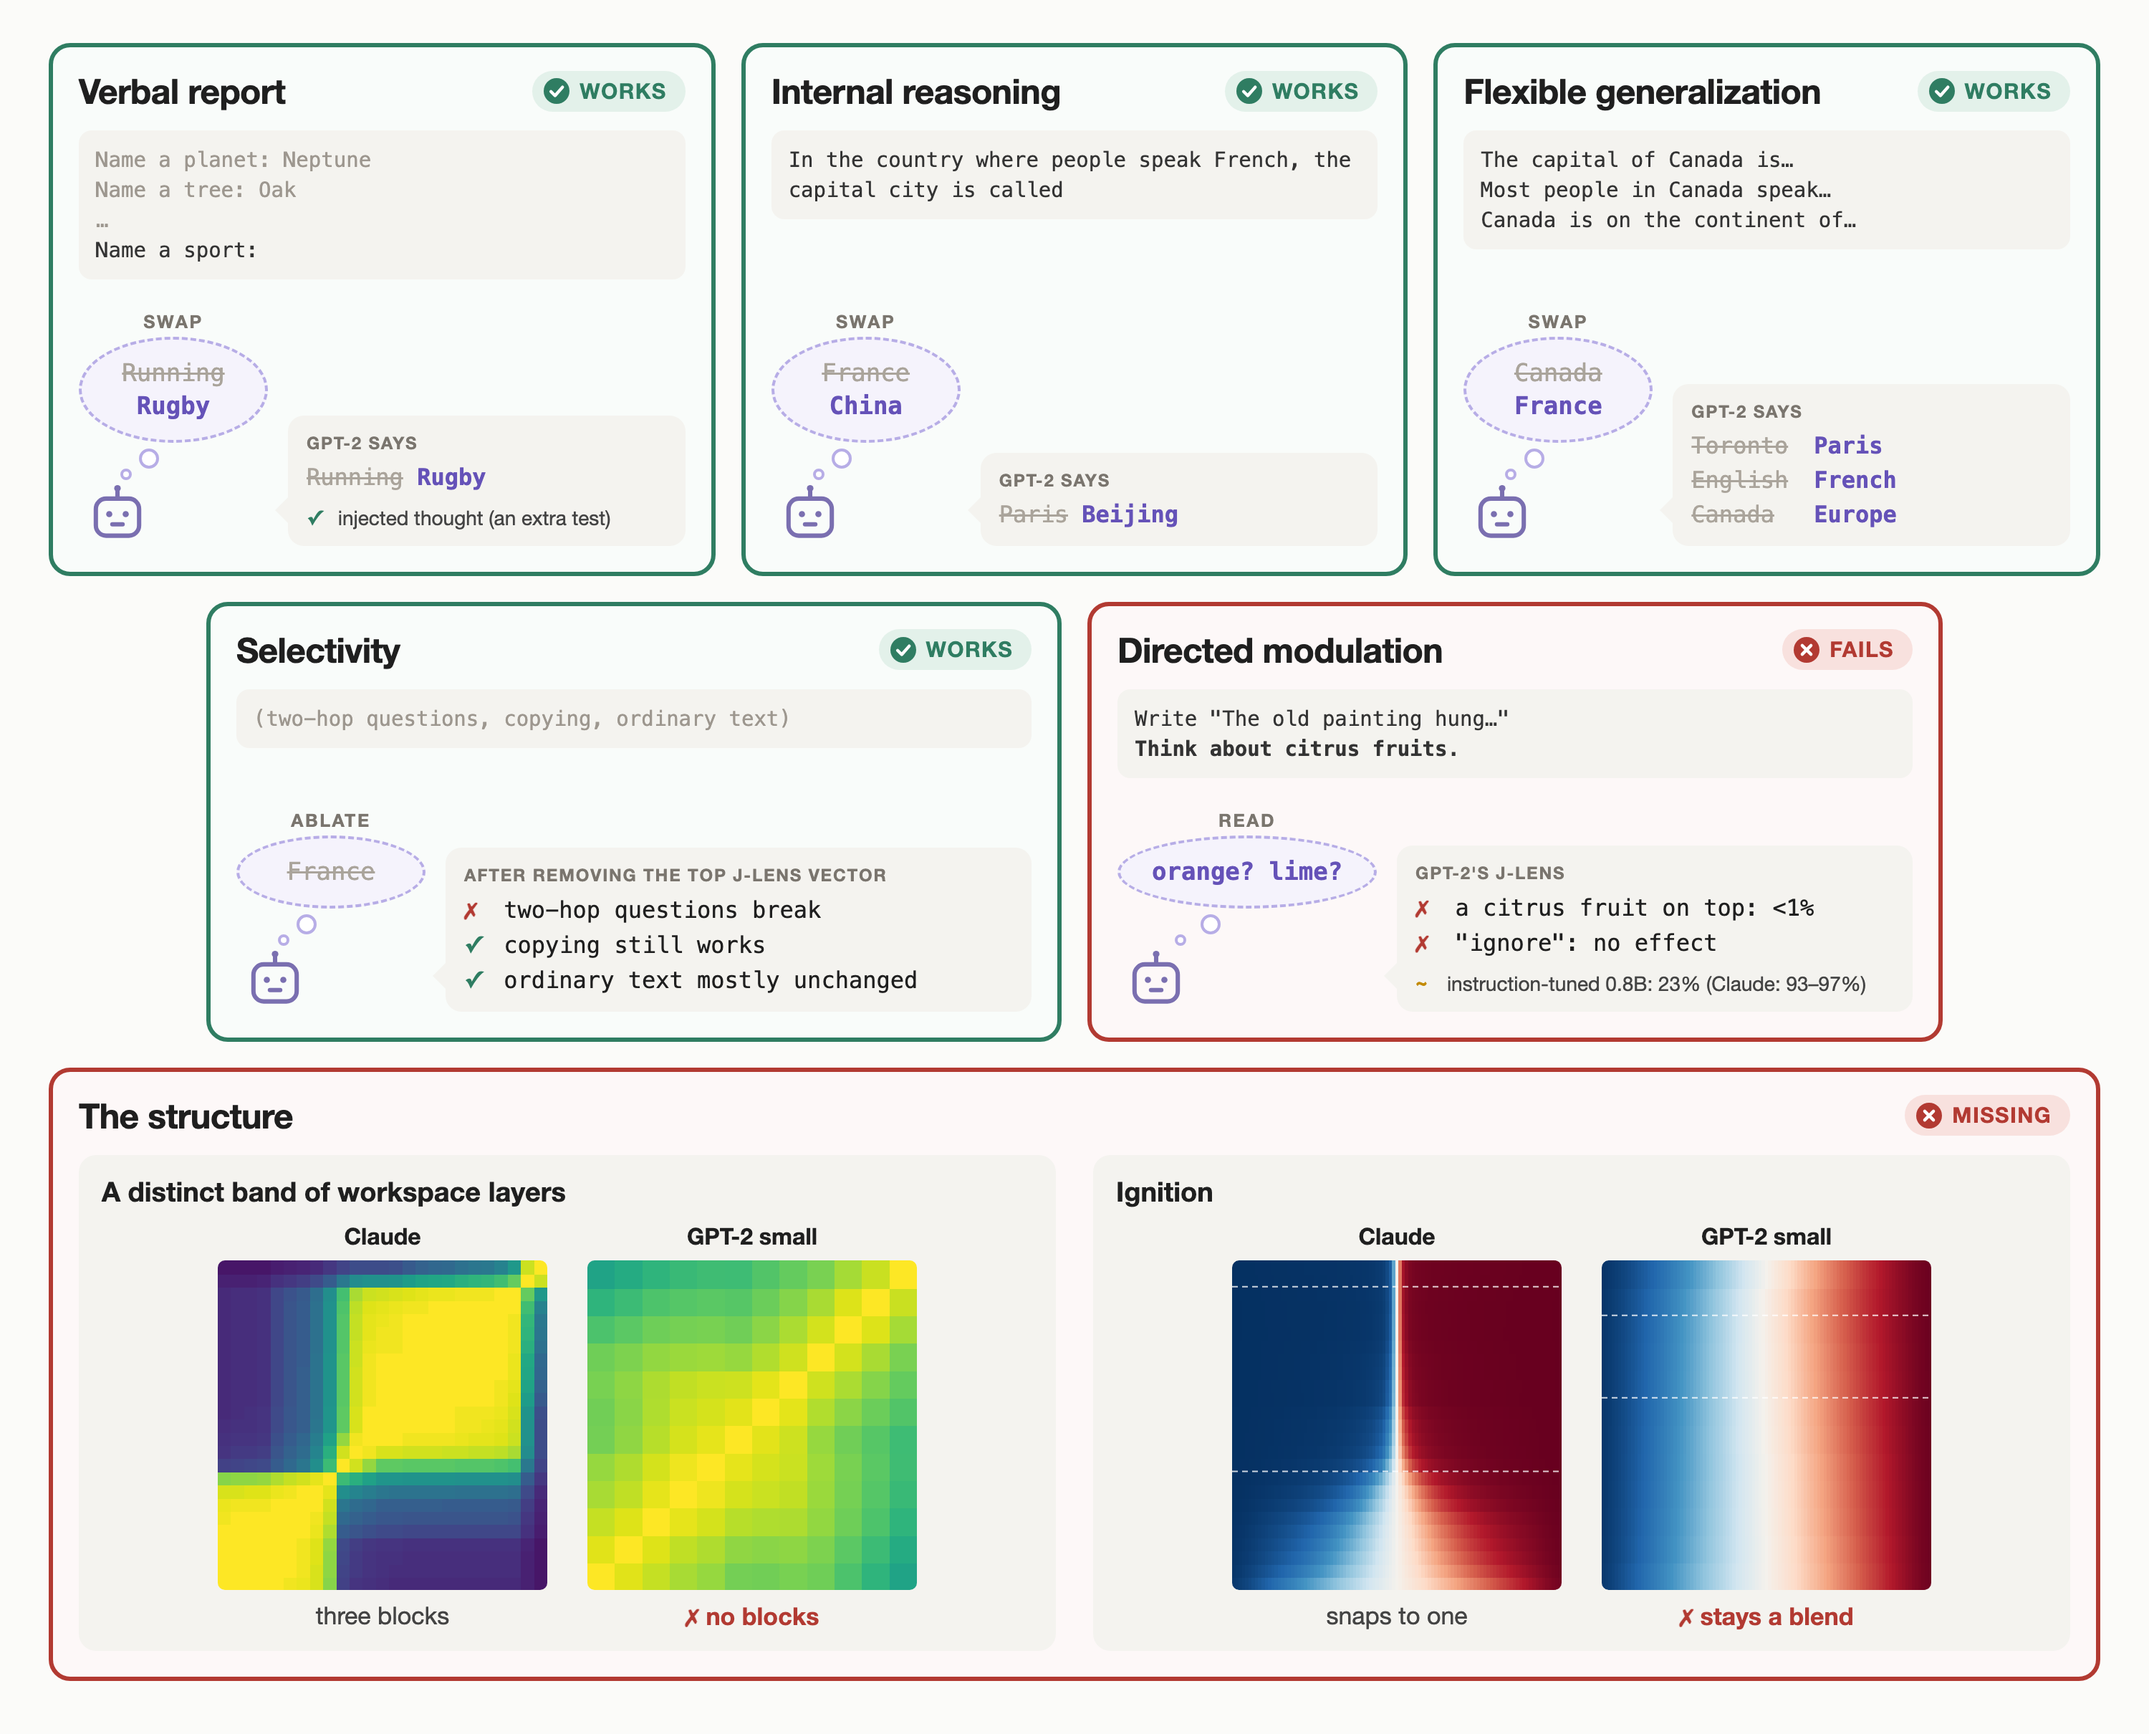
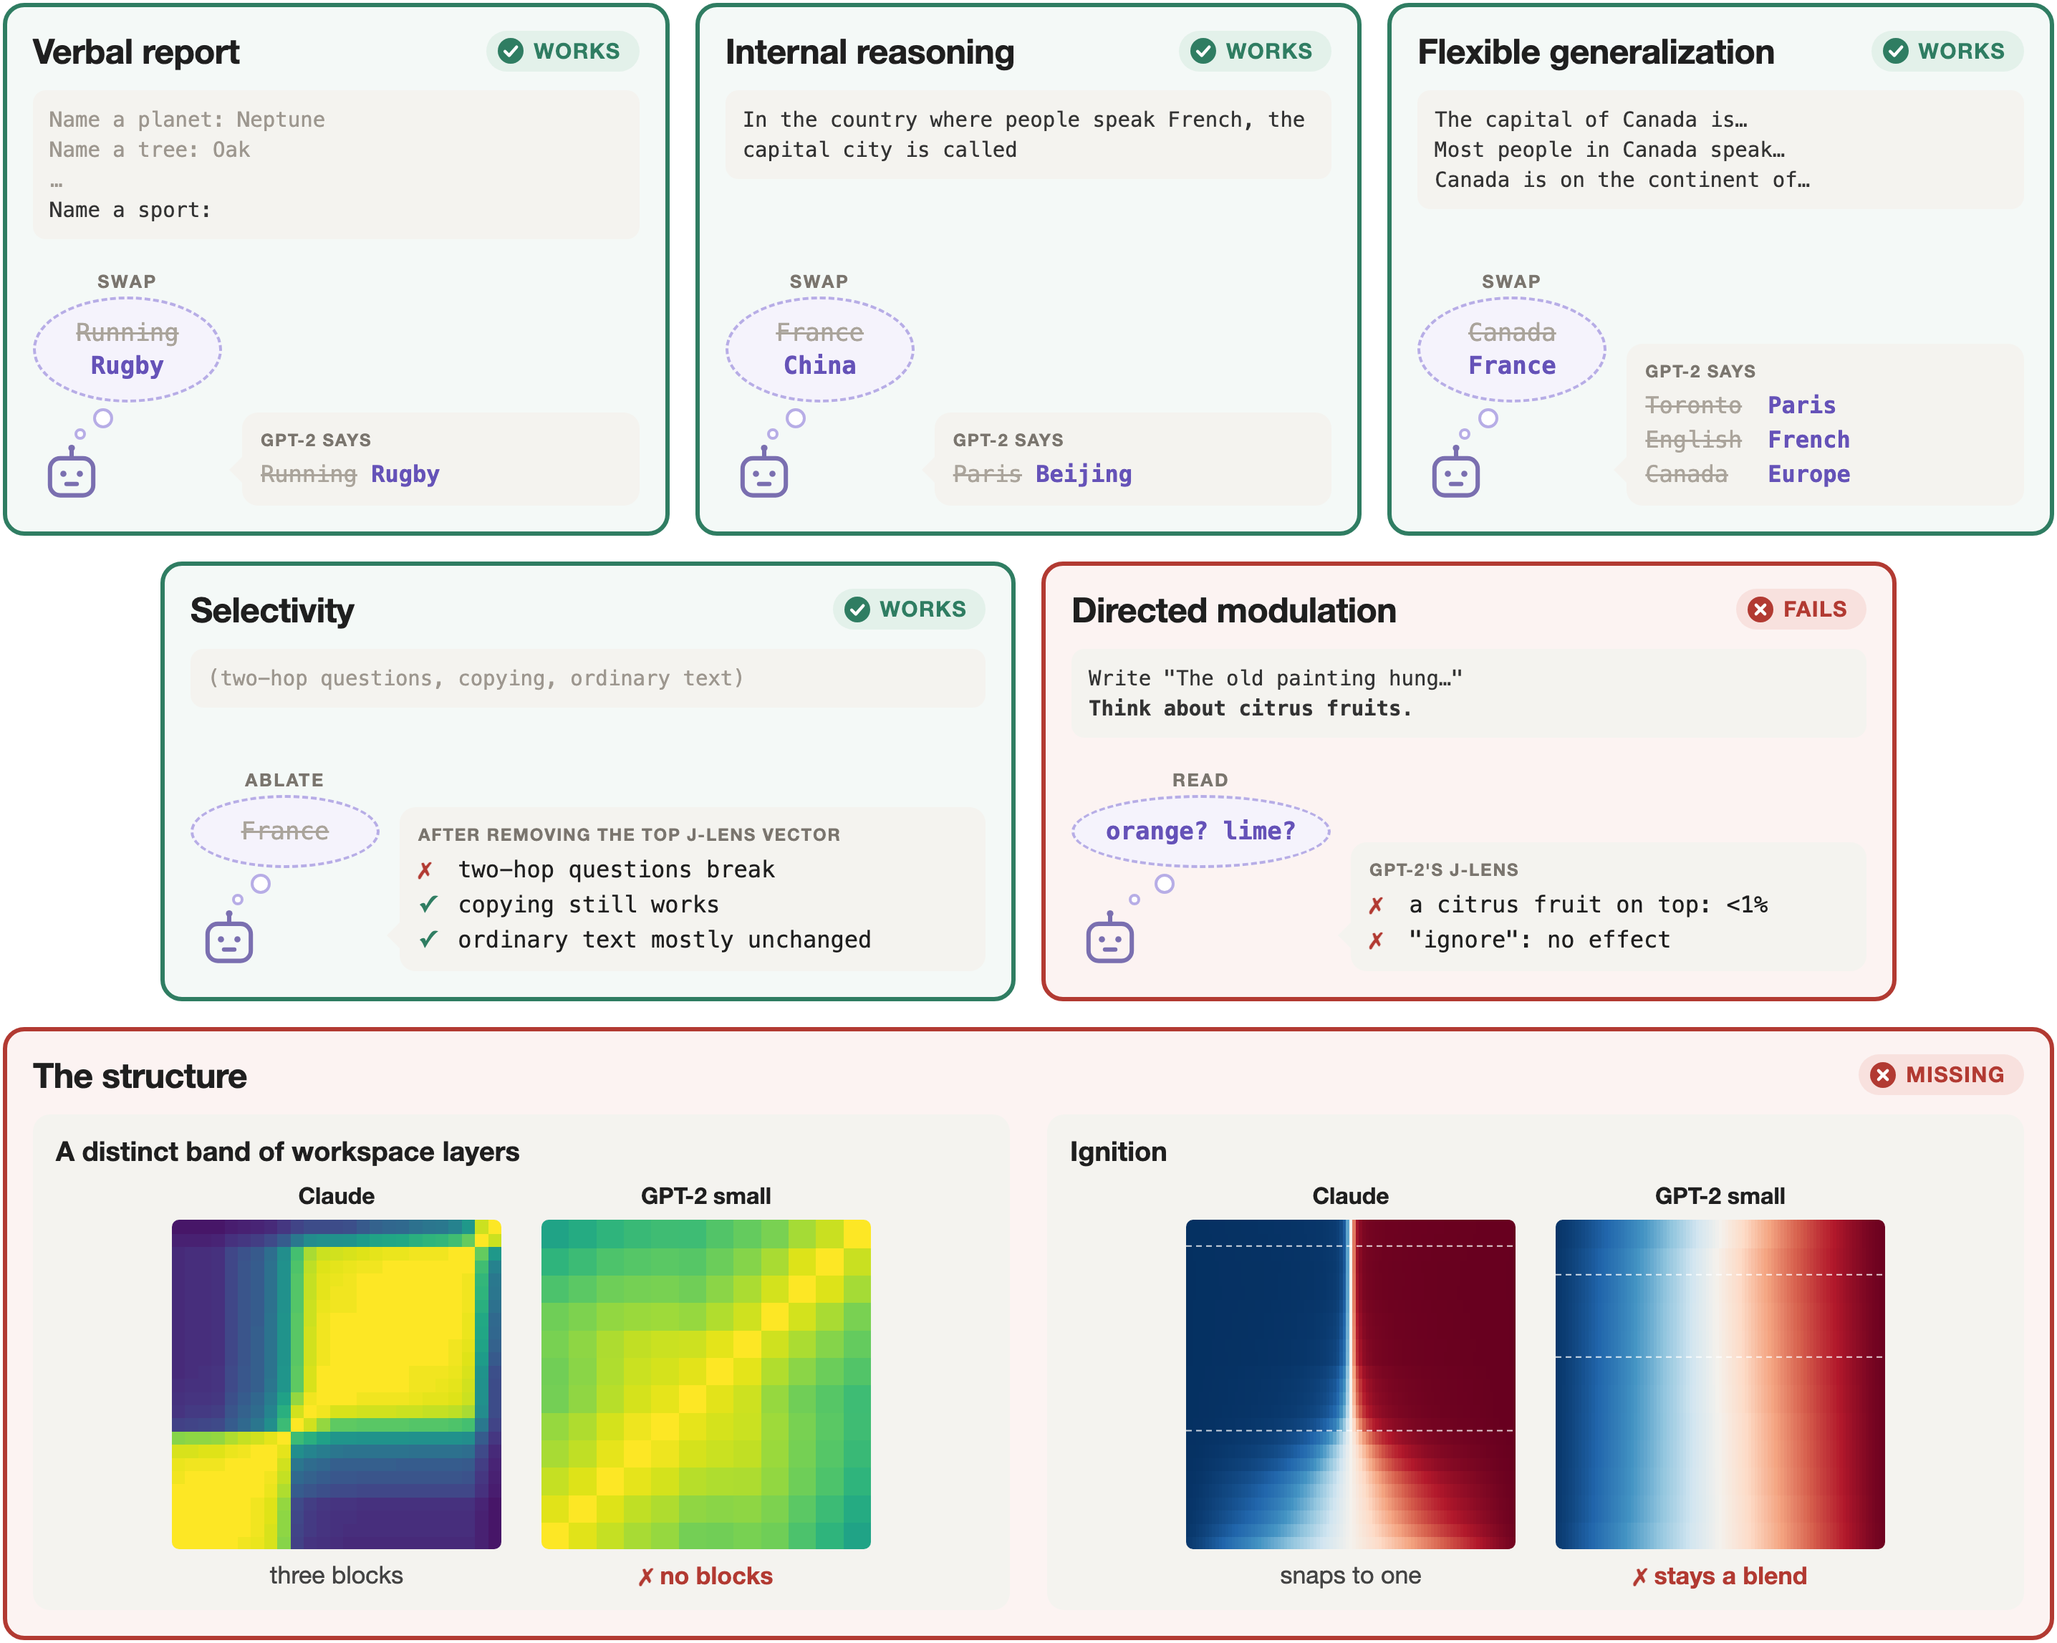
Figure 1: white background, tight crop, drop the injected-thought and Qwen notes

Changed region(s): [[0.0, 0.0, 1.0, 1.0], [0.4958, 0.6809, 0.5578, 0.7119]]

diff --git a/post/fig1/fig1.html b/post/fig1/fig1.html
@@ -6,7 +6,7 @@
 <title>GPT-2 small on the workspace tests</title>
 <style>
   :root {
-    --bg: #fbfbf9; --card: #fff; --ink: #1f1f1f; --ink2: #444; --muted: #7a756e; --line: #e6e3dc; --box: #f4f3ef;
+    --bg: #fff; --card: #fff; --ink: #1f1f1f; --ink2: #444; --muted: #7a756e; --line: #e6e3dc; --box: #f4f3ef;
     --works: #2f7d62; --works-tint: #e3f1ea;
     --partly: #c28a00; --partly-tint: #fbf0d3;
     --no: #b23a32; --no-tint: #f8e1de;
@@ -18,7 +18,7 @@
 
   * { box-sizing: border-box; }
   body { margin: 0; background: var(--bg); color: var(--ink); font-family: var(--sans); }
-  .fig { background: var(--bg); padding: 30px 34px; width: 1500px; }
+  .fig { background: var(--bg); padding: 2px; width: 1436px; }
 
   s { color: #aaa49b; text-decoration: line-through; text-decoration-thickness: 1.5px; }
   em { font-style: normal; color: var(--acc); font-weight: 650; }
@@ -57,7 +57,7 @@
   .hm .cap { font-size: 17px; margin-top: 8px; text-align: center; color: var(--ink2); }
   .hm .cap.bad { color: var(--no); font-weight: 750; }
 
-  .tint-faint .card { background: color-mix(in srgb, var(--vt) 22%, #fff); }
+  .tint-faint .card { background: color-mix(in srgb, var(--vt) 40%, #fff); }
 </style>
 </head>
 <body>
@@ -109,7 +109,7 @@ const mk = (k, t) => `<span class="mk ${k}">${{ ok: "✓", x: "✗", mid: "~" }[
 const TESTS = [
   { name: "Verbal report", v: "works", prompt: `<span class="dim">Name a planet: Neptune\nName a tree: Oak\n…</span>\nName a sport:`,
     op: "SWAP", bub: ["<s>Running</s>", "<em>Rugby</em>"], lab: "GPT-2 SAYS",
-    says: `<s>Running</s> <em>Rugby</em><div class="note">${mk("ok", " injected thought (an extra test)")}</div>` },
+    says: `<s>Running</s> <em>Rugby</em>` },
   { name: "Internal reasoning", v: "works", prompt: `In the country where people speak French, the capital city is called`,
     op: "SWAP", bub: ["<s>France</s>", "<em>China</em>"], lab: "GPT-2 SAYS", says: `<s>Paris</s> <em>Beijing</em>` },
   { name: "Flexible generalization", v: "works", prompt: `The capital of Canada is…\nMost people in Canada speak…\nCanada is on the continent of…`,
@@ -120,7 +120,7 @@ const TESTS = [
     says: `${mk("x", " two-hop questions break")}<br>${mk("ok", " copying still works")}<br>${mk("ok", " ordinary text mostly unchanged")}` },
   { name: "Directed modulation", v: "no", label: "FAILS", prompt: `Write "The old painting hung…"\n<b>Think about citrus fruits.</b>`,
     op: "READ", bub: ["<em>orange? lime?</em>"], lab: "GPT-2'S J-LENS",
-    says: `${mk("x", " a citrus fruit on top: <1%")}<br>${mk("x", ` "ignore": no effect`)}<div class="note">${mk("mid", " instruction-tuned 0.8B: 23% (Claude: 93–97%)")}</div>` },
+    says: `${mk("x", " a citrus fruit on top: <1%")}<br>${mk("x", ` "ignore": no effect`)}` },
 ];
 const C25 = 25;
 const STRUCT = [

diff --git a/post/fig1/template.html b/post/fig1/template.html
@@ -6,7 +6,7 @@
 <title>GPT-2 small on the workspace tests</title>
 <style>
   :root {
-    --bg: #fbfbf9; --card: #fff; --ink: #1f1f1f; --ink2: #444; --muted: #7a756e; --line: #e6e3dc; --box: #f4f3ef;
+    --bg: #fff; --card: #fff; --ink: #1f1f1f; --ink2: #444; --muted: #7a756e; --line: #e6e3dc; --box: #f4f3ef;
     --works: #2f7d62; --works-tint: #e3f1ea;
     --partly: #c28a00; --partly-tint: #fbf0d3;
     --no: #b23a32; --no-tint: #f8e1de;
@@ -18,7 +18,7 @@
 
   * { box-sizing: border-box; }
   body { margin: 0; background: var(--bg); color: var(--ink); font-family: var(--sans); }
-  .fig { background: var(--bg); padding: 30px 34px; width: 1500px; }
+  .fig { background: var(--bg); padding: 2px; width: 1436px; }
 
   s { color: #aaa49b; text-decoration: line-through; text-decoration-thickness: 1.5px; }
   em { font-style: normal; color: var(--acc); font-weight: 650; }
@@ -57,7 +57,7 @@
   .hm .cap { font-size: 17px; margin-top: 8px; text-align: center; color: var(--ink2); }
   .hm .cap.bad { color: var(--no); font-weight: 750; }
 
-  .tint-faint .card { background: color-mix(in srgb, var(--vt) 22%, #fff); }
+  .tint-faint .card { background: color-mix(in srgb, var(--vt) 40%, #fff); }
 </style>
 </head>
 <body>
@@ -109,7 +109,7 @@ const mk = (k, t) => `<span class="mk ${k}">${{ ok: "✓", x: "✗", mid: "~" }[
 const TESTS = [
   { name: "Verbal report", v: "works", prompt: `<span class="dim">Name a planet: Neptune\nName a tree: Oak\n…</span>\nName a sport:`,
     op: "SWAP", bub: ["<s>Running</s>", "<em>Rugby</em>"], lab: "GPT-2 SAYS",
-    says: `<s>Running</s> <em>Rugby</em><div class="note">${mk("ok", " injected thought (an extra test)")}</div>` },
+    says: `<s>Running</s> <em>Rugby</em>` },
   { name: "Internal reasoning", v: "works", prompt: `In the country where people speak French, the capital city is called`,
     op: "SWAP", bub: ["<s>France</s>", "<em>China</em>"], lab: "GPT-2 SAYS", says: `<s>Paris</s> <em>Beijing</em>` },
   { name: "Flexible generalization", v: "works", prompt: `The capital of Canada is…\nMost people in Canada speak…\nCanada is on the continent of…`,
@@ -120,7 +120,7 @@ const TESTS = [
     says: `${mk("x", " two-hop questions break")}<br>${mk("ok", " copying still works")}<br>${mk("ok", " ordinary text mostly unchanged")}` },
   { name: "Directed modulation", v: "no", label: "FAILS", prompt: `Write "The old painting hung…"\n<b>Think about citrus fruits.</b>`,
     op: "READ", bub: ["<em>orange? lime?</em>"], lab: "GPT-2'S J-LENS",
-    says: `${mk("x", " a citrus fruit on top: <1%")}<br>${mk("x", ` "ignore": no effect`)}<div class="note">${mk("mid", " instruction-tuned 0.8B: 23% (Claude: 93–97%)")}</div>` },
+    says: `${mk("x", " a citrus fruit on top: <1%")}<br>${mk("x", ` "ignore": no effect`)}` },
 ];
 const C25 = 25;
 const STRUCT = [

diff --git a/post/fig1/build.py b/post/fig1/build.py
@@ -6,11 +6,13 @@ Data:
       and .../data/ignition/data.json
   ../../results/band/cka.json                      GPT-2 dictionary CKA (top 5 PCs removed)
   data/ignition_grid.json                          GPT-2 ignition sweep (data/ignition_grid.py)
-Run from the repo root:  python post/fig1/build.py
+Run from the repo root:  .venv/bin/python post/fig1/build.py
 """
 import json
 import pathlib
 import subprocess
+
+from PIL import Image, ImageChops
 
 HERE = pathlib.Path(__file__).resolve().parent
 ROOT = HERE.parents[1]
@@ -29,6 +31,10 @@ data = dict(
 html = (HERE / "template.html").read_text().replace("__DATA__", json.dumps(data, separators=(",", ":")))
 (HERE / "fig1.html").write_text(html)
 subprocess.run([CHROMIUM, "--headless", "--disable-gpu", "--hide-scrollbars", "--force-device-scale-factor=2",
-                "--window-size=1500,1210", f"--screenshot={HERE / 'fig1.png'}", (HERE / "fig1.html").as_uri()],
+                "--window-size=1436,1300", f"--screenshot={HERE / 'fig1.png'}", (HERE / "fig1.html").as_uri()],
                check=True, capture_output=True)
+# crop the white below the figure, keeping the same 2px (4px at 2x) margin as the other sides
+img = Image.open(HERE / "fig1.png").convert("RGB")
+bottom = ImageChops.difference(img, Image.new("RGB", img.size, "white")).getbbox()[3]
+img.crop((0, 0, img.width, bottom + 4)).save(HERE / "fig1.png")
 print("wrote", HERE / "fig1.html", "and fig1.png")
